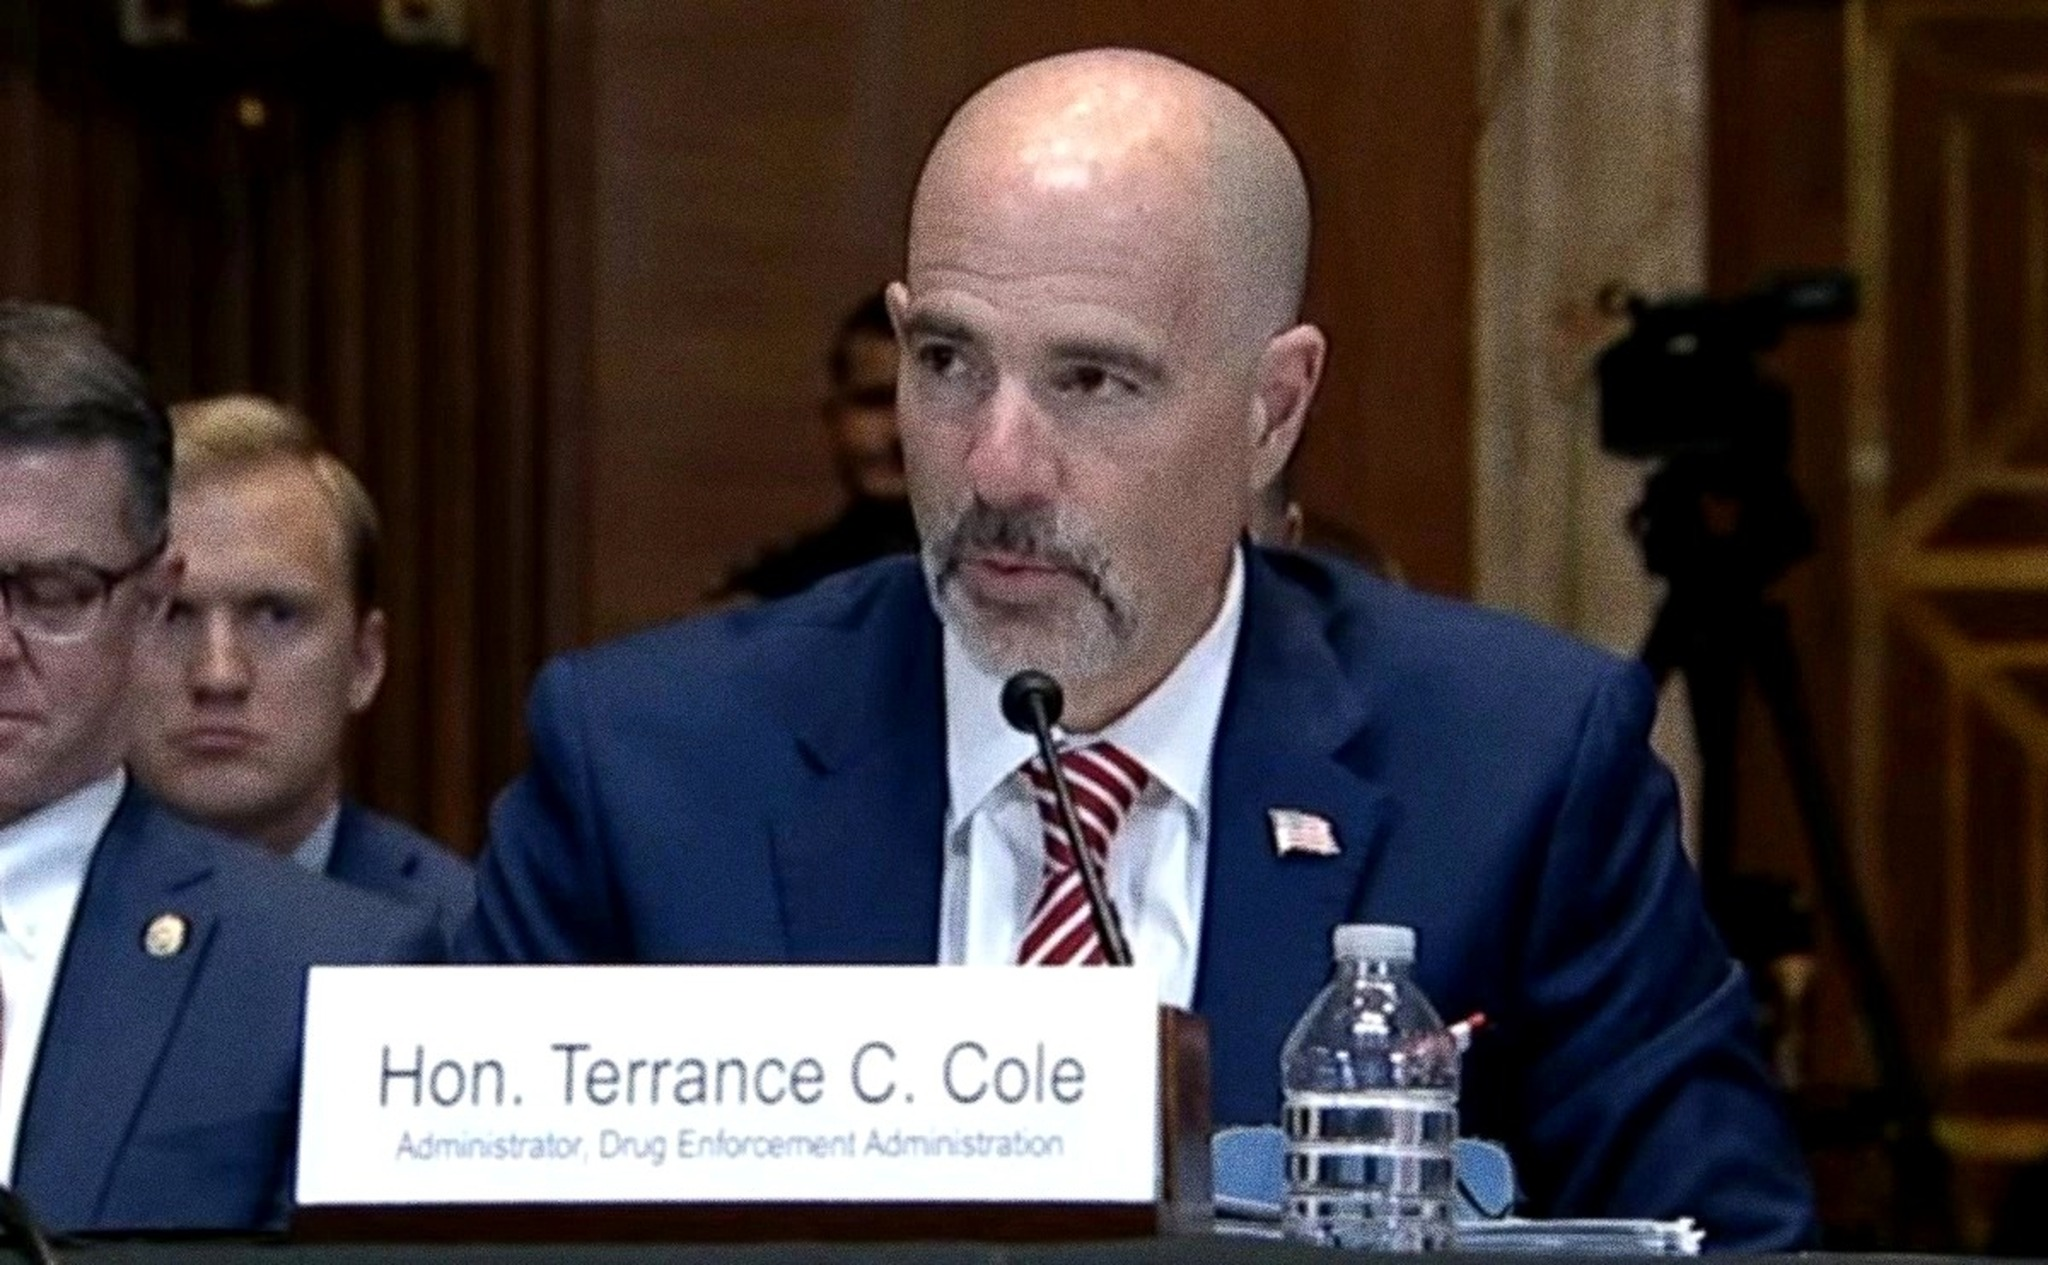
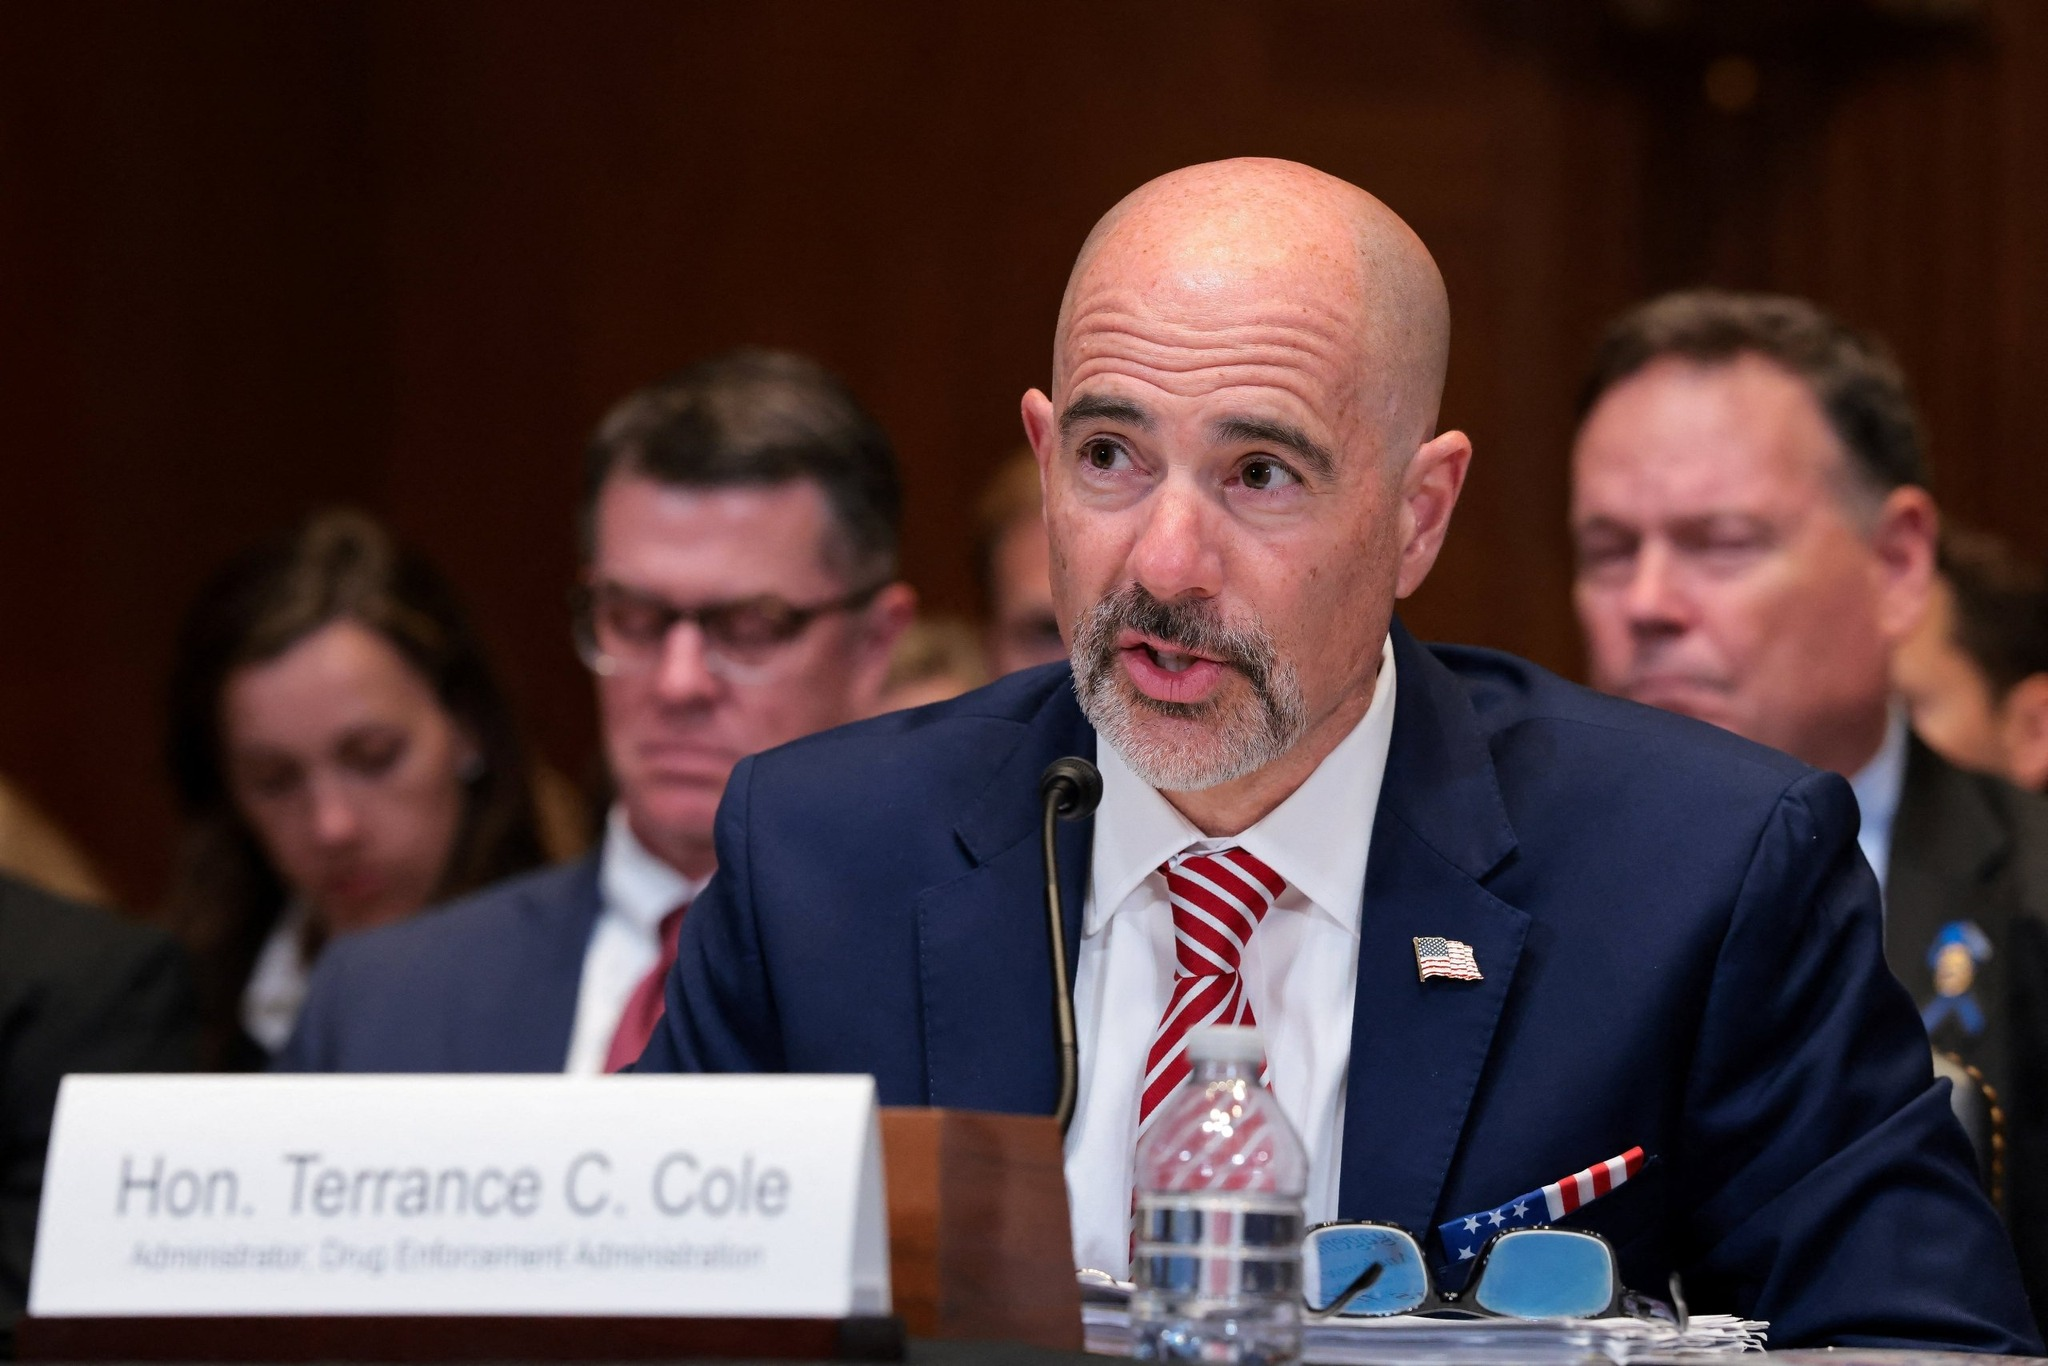
DEA article: replace featured image (both resolutions)

diff --git a/translations/2026-07-14-dea-deadly-connection/article.html b/translations/2026-07-14-dea-deadly-connection/article.html
@@ -1,5 +1,5 @@
-<!-- wp:image {"id":18035,"sizeSlug":"large"} -->
-<figure class="wp-block-image"><img src="https://mexicosolidarity.com/wp-content/uploads/2026/07/2026-07-14-dea-deadly-connection-large.jpg" alt="DEA Administrator Terry Cole speaking"/><figcaption class="wp-element-caption">Photo: Screenshot from a YouTube video</figcaption></figure>
+<!-- wp:image {"id":18041,"sizeSlug":"large"} -->
+<figure class="wp-block-image"><img src="https://mexicosolidarity.com/wp-content/uploads/2026/07/2026-07-14-dea-deadly-connection-large.jpg" alt="DEA Administrator Terry Cole speaking"/><figcaption class="wp-element-caption">Photo:</figcaption></figure>
 <!-- /wp:image -->
 
 <!-- wp:paragraph -->
